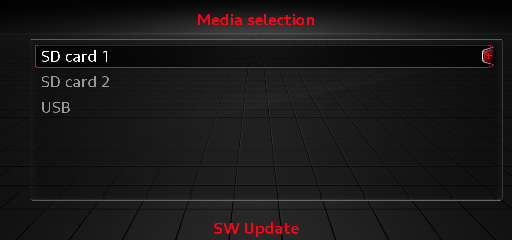
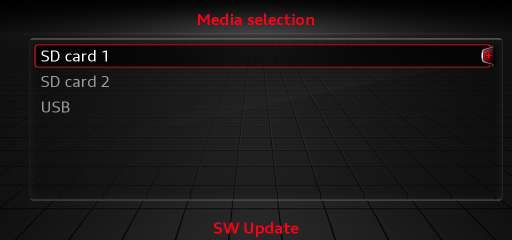
docs(install): uniform screenshot sizes; refreshed HMI shots incl. mibpkg list
- all phone-UI screenshots to a uniform width 240; landscape HMI shots to 360
- refresh SW Update + Version info; add the real update-list shot (Standard ->
  mibpkg [Y] at the bottom, Start update below) captured from the live unit
- Step 5: Standard (not User defined), scroll to the bottom, Start update

diff --git a/INSTALL.md b/INSTALL.md
@@ -10,7 +10,7 @@ to install and manage software.
 removed, and a `DISABLE` card stops everything if anything goes wrong.
 
 <p align="center">
-  <img src="docs/screenshots/discover.png" width="300" alt="mibpkg Discover screen — the finished result">
+  <img src="docs/screenshots/discover.png" width="240" alt="mibpkg Discover screen — the finished result">
 </p>
 
 ---
@@ -92,13 +92,15 @@ Open the unit's engineering / Red menu and choose **Software Update** (SWDL). Se
   <img src="docs/install-images/04-sw-update.jpg" width="360" alt="SW Update media selection: SD card 1 / SD card 2 / USB">
 </p>
 
-### Step 5 — Select "mibpkg installer" and start
+### Step 5 — Start the update
 
-In the update list you'll see **`mibpkg`** marked **`[Y]`** (installable). The other rows
-(IOC, GPS, …) show `[N/A]` — that's normal.
+Choose **Standard**, then scroll to the **bottom** of the list: you'll see **`mibpkg`** marked
+**`[Y]`** (installable). The other rows (DVD, GPS, …) show `[N/A]` — that's normal. Select
+**Start update** to begin.
 
-> 📸 *[Image: the update list with "mibpkg [Y]" highlighted and "Start update" below.]*
-> `docs/install-images/05-mibpkg-listed.png`
+<p align="center">
+  <img src="docs/install-images/05-mibpkg-listed.jpg" width="360" alt="Update list: mibpkg [Y] at the bottom, Start update below">
+</p>
 
 ### Step 6 — Let it install and reboot
 
@@ -145,14 +147,14 @@ From there:
 
 <table>
   <tr>
-    <td align="center"><img src="docs/screenshots/discover.png" width="220" alt="Discover"><br><b>Discover</b> — browse and install packages.</td>
-    <td align="center"><img src="docs/screenshots/updates.png" width="220" alt="Updates"><br><b>Updates</b> — one tap to update everything.</td>
-    <td align="center"><img src="docs/screenshots/installed.png" width="220" alt="Installed"><br><b>Installed</b> — see what's running.</td>
+    <td align="center"><img src="docs/screenshots/discover.png" width="240" alt="Discover"><br><b>Discover</b> — browse and install packages.</td>
+    <td align="center"><img src="docs/screenshots/updates.png" width="240" alt="Updates"><br><b>Updates</b> — one tap to update everything.</td>
+    <td align="center"><img src="docs/screenshots/installed.png" width="240" alt="Installed"><br><b>Installed</b> — see what's running.</td>
   </tr>
   <tr>
-    <td align="center"><img src="docs/screenshots/sources.png" width="220" alt="Sources"><br><b>Sources</b> — add a community repo.</td>
-    <td align="center"><img src="docs/screenshots/more.png" width="220" alt="More"><br><b>More</b> — install a .mpk, logs, settings, health.</td>
-    <td align="center"><img src="docs/screenshots/pin.png" width="220" alt="PIN"><br><b>PIN</b> — optionally lock the interface.</td>
+    <td align="center"><img src="docs/screenshots/sources.png" width="240" alt="Sources"><br><b>Sources</b> — add a community repo.</td>
+    <td align="center"><img src="docs/screenshots/more.png" width="240" alt="More"><br><b>More</b> — install a .mpk, logs, settings, health.</td>
+    <td align="center"><img src="docs/screenshots/pin.png" width="240" alt="PIN"><br><b>PIN</b> — optionally lock the interface.</td>
   </tr>
 </table>
 
@@ -204,9 +206,9 @@ Two easy ways, each with a confirmation:
 Several screens are already in place (captured from a live unit). The remaining ones are physical
 shots only you can take; drop each at the path shown and swap its 📸 placeholder line for an image.
 
-**Already in the guide:**
-- [x] Version information (`08-version-info.jpg`), SW Update media selection (`04-sw-update.jpg`),
-      and the Discover result shot.
+**Already in the guide** (captured from a live unit): SW Update media selection
+(`04-sw-update.jpg`), the update list with mibpkg (`05-mibpkg-listed.jpg`), Version information
+(`08-version-info.jpg`), and the Discover result shot.
 
 **Still to capture (physical):**
 - [ ] `docs/install-images/01-sd-format-mac.png` — Disk Utility **Erase** dialog: Format **MS-DOS
@@ -214,8 +216,6 @@ shots only you can take; drop each at the path shown and swap its 📸 placehold
 - [ ] `docs/install-images/02-card-contents.png` — the SD root showing `metainfo2.txt`, `mibpkg/`,
       `mod/`, `_Swdlautorun.txt`.
 - [ ] `docs/install-images/03-insert-sd1.png` — inserting the card into **SD1**.
-- [ ] `docs/install-images/05-mibpkg-listed.png` — the update list with **mibpkg [Y]** highlighted
-      and **Start update** below. *(You already captured this during testing.)*
 - [ ] `docs/install-images/06-installing.png` — the install/reboot progress screen.
 - [ ] `docs/install-images/07-mib-run-custom-script.png` — GEM → M.I.B. → Advanced Settings → Run
       Custom Script.

diff --git a/README.md b/README.md
@@ -6,7 +6,7 @@ the in-car engineering menu. A built-in supervisor starts your software at boot 
 running.
 
 <p align="center">
-  <img src="docs/screenshots/discover.png" width="300" alt="mibpkg Discover screen">
+  <img src="docs/screenshots/discover.png" width="240" alt="mibpkg Discover screen">
 </p>
 
 - **No PC at the car.** Everything runs on the unit; you drive it from your phone's browser.
@@ -22,9 +22,9 @@ New here? **[Follow the step-by-step install guide → INSTALL.md](INSTALL.md)**
 
 <table>
   <tr>
-    <td align="center"><img src="docs/screenshots/discover.png" width="230" alt="Discover"><br><b>Discover</b><br>Browse what's on the card and online.</td>
-    <td align="center"><img src="docs/screenshots/updates.png" width="230" alt="Updates"><br><b>Updates</b><br>One tap to update everything.</td>
-    <td align="center"><img src="docs/screenshots/more.png" width="230" alt="More"><br><b>More</b><br>Logs, sources, settings, health.</td>
+    <td align="center"><img src="docs/screenshots/discover.png" width="240" alt="Discover"><br><b>Discover</b><br>Browse what's on the card and online.</td>
+    <td align="center"><img src="docs/screenshots/updates.png" width="240" alt="Updates"><br><b>Updates</b><br>One tap to update everything.</td>
+    <td align="center"><img src="docs/screenshots/more.png" width="240" alt="More"><br><b>More</b><br>Logs, sources, settings, health.</td>
   </tr>
 </table>
 
@@ -63,8 +63,8 @@ installing a `.mpk` from your phone, live logs, config files and online sources.
 
 <table>
   <tr>
-    <td align="center"><img src="docs/screenshots/installed.png" width="230" alt="Installed"><br><b>Installed</b> — what's running, at a glance.</td>
-    <td align="center"><img src="docs/screenshots/sources.png" width="230" alt="Sources"><br><b>Sources</b> — add a community package repo.</td>
+    <td align="center"><img src="docs/screenshots/installed.png" width="240" alt="Installed"><br><b>Installed</b> — what's running, at a glance.</td>
+    <td align="center"><img src="docs/screenshots/sources.png" width="240" alt="Sources"><br><b>Sources</b> — add a community package repo.</td>
   </tr>
 </table>
 
